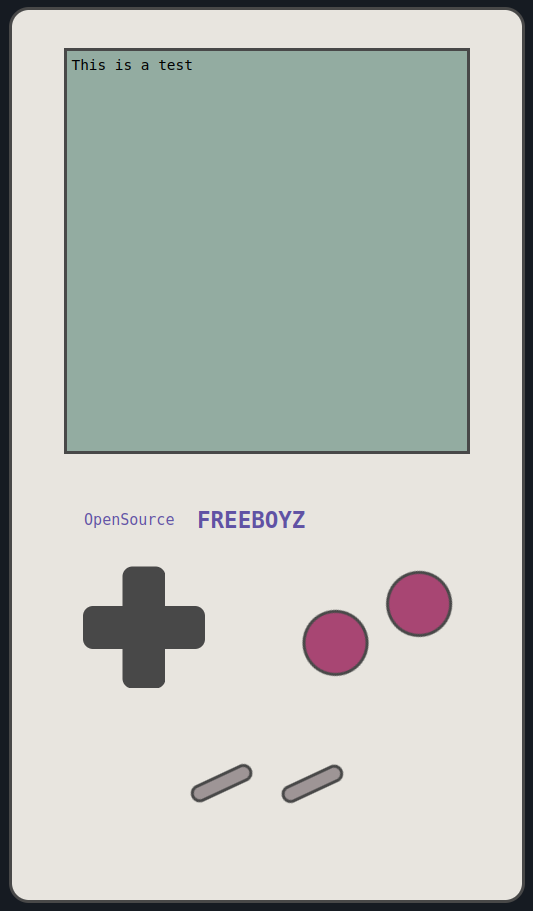
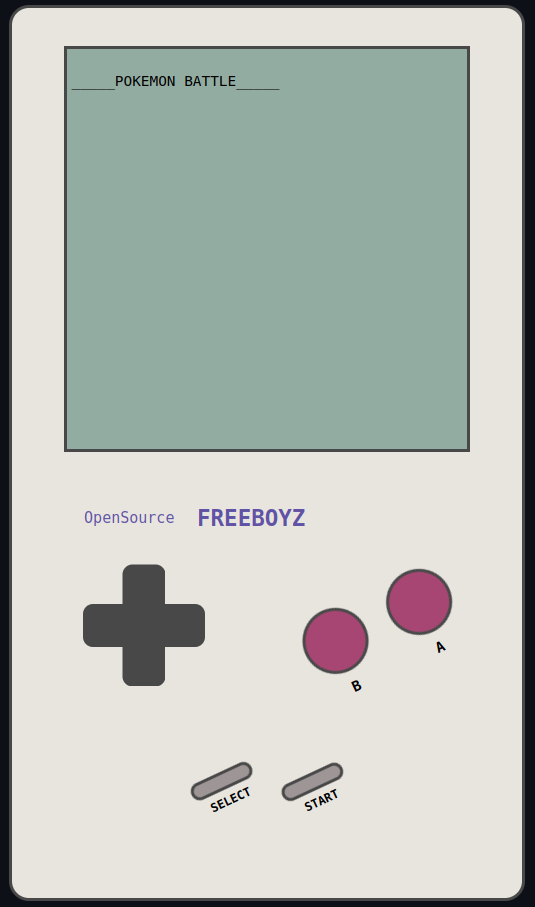
Generating delayed sample text on a-b buttons, minor design upgrades

diff --git a/index.html b/index.html
@@ -10,7 +10,7 @@
     <div id="gameboy" class="shell">
 
         <div id="screen">
-            <div id="screen-data">This is a test</div>
+            <div id="screen-data"></div>
         </div>
         
         <div id="controls">
@@ -27,15 +27,27 @@
                 </div>
 
                 <div class="main-buttons">
-                    <div id="a-button" class="ab-button"></div>
-                    <div id="b-button" class="ab-button"></div>
+
+                    <div id="b-block">
+                        <div id="b-button" class="ab-button"></div>
+                        <p class="ab-text">B</p>
+                    </div>
+
+                    <div id="a-block">
+                        <div id="a-button" class="ab-button"></div>
+                        <p class="ab-text">A</p>
+                    </div>
                 </div>
             </div>
 
             <div class="controls-secondary">
                 <div class="secondary-buttons">
-                    <div id="start-button" class="start-select"></div>
-                    <div id="select-button" class="start-select"></div>
+                    <div id="start-button" class="start-select">
+                        <p class="startSelect-text">SELECT</p>
+                    </div>
+                    <div id="select-button" class="start-select">
+                        <p class="startSelect-text">START</p>
+                    </div>
                 </div>
             </div>
 

diff --git a/js/pokemon.js b/js/pokemon.js
@@ -1,0 +1,44 @@
+//////////////////////////////
+//  SCREEN & CONTROLLERS    //
+
+let screenData = document.getElementById("screen-data");
+
+let a_button = document.getElementById("a-button");
+let b_button = document.getElementById("b-button");
+
+a_button.addEventListener("click", addSample, false);
+b_button.addEventListener("click", removeText);
+
+function addText(text){
+    for(let i = 0; i < text.length; i++) {    
+        setTimeout(function() {
+            screenData.innerHTML += text[i];
+
+            // When adding text, navigate to bottom
+            screenData.scrollIntoView(false);
+        }, 100);
+    }
+    screenData.innerHTML += "<br>";
+}
+
+function removeText() {
+    let noText = "";
+    screenData.innerHTML = noText;
+}
+
+function addSample() {
+    let test = "_____POKEMON BATTLE_____";
+    addText(test);
+}
+
+
+//////////////////////////////
+//  STARTING THE GAME       //
+
+//class Pokemon(name, type, moves, EVs, health)
+
+/*  _____POKEMON BATTLE_____
+    Pokemon 1 info
+    VS
+    Pokemon 2 info
+*/

diff --git a/css/styles.css b/css/styles.css
@@ -1,5 +1,5 @@
 body {
-	background-color: #161b22;
+	background-color: #0d1117;
 	font-family: monospace;
 }
 
@@ -24,7 +24,7 @@ body {
 	height: 400px;
 	border: 3px solid #484848;
 	background-color: #93aca1;
-	overflow: scroll;
+	overflow: auto;
 }
 
 #screen-data {
@@ -33,6 +33,10 @@ body {
 }
 
 /* Controls section */
+.ab-button:hover, .start-select:hover {
+	cursor: pointer;
+}
+
 #controls{
 	width: 410px;
 	height: 370px;
@@ -49,6 +53,7 @@ body {
 	height: 50px;
 	font-size: 15px;
 	justify-content: space-evenly;
+	cursor: default;
 }
 
 .controls-main, .controls-secondary {
@@ -97,6 +102,28 @@ body {
 	width: 60px;
 	height: 60px;
 	border: 3px solid #484848;
+	display: flex;
+	justify-content: center;
+	align-items: end;
+}
+
+.ab-text {
+	margin: 0 auto;
+	text-align: center;
+	font-size: larger;
+	padding-top: 7px;
+	font-weight: bold;
+}
+
+.ab-text:hover {
+	cursor: default;
+}
+
+.startSelect-text {
+	text-align: center;
+	padding-top: 7px;
+	font-weight: bold;
+	cursor: default;
 }
 
 .secondary-buttons {
